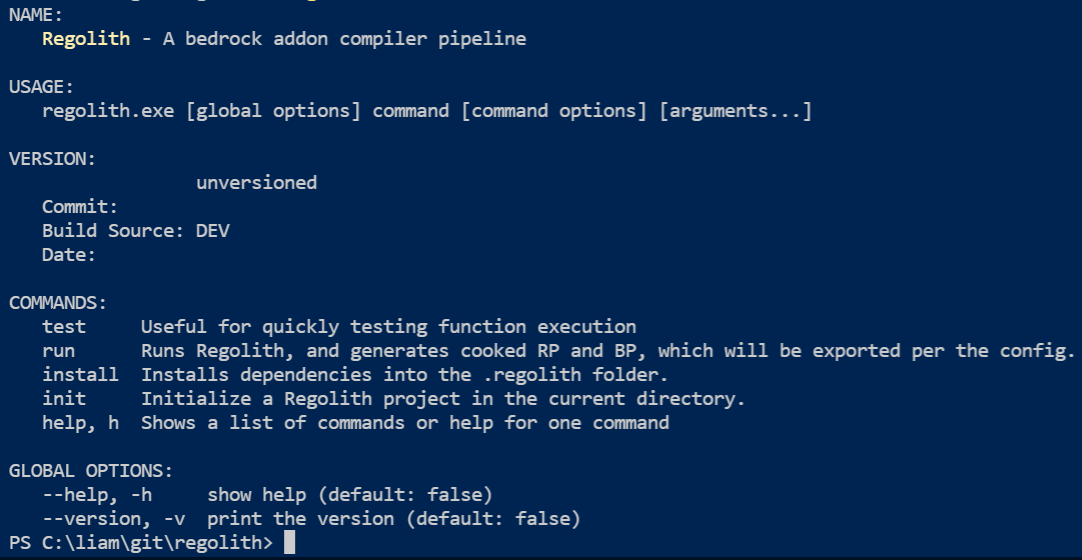
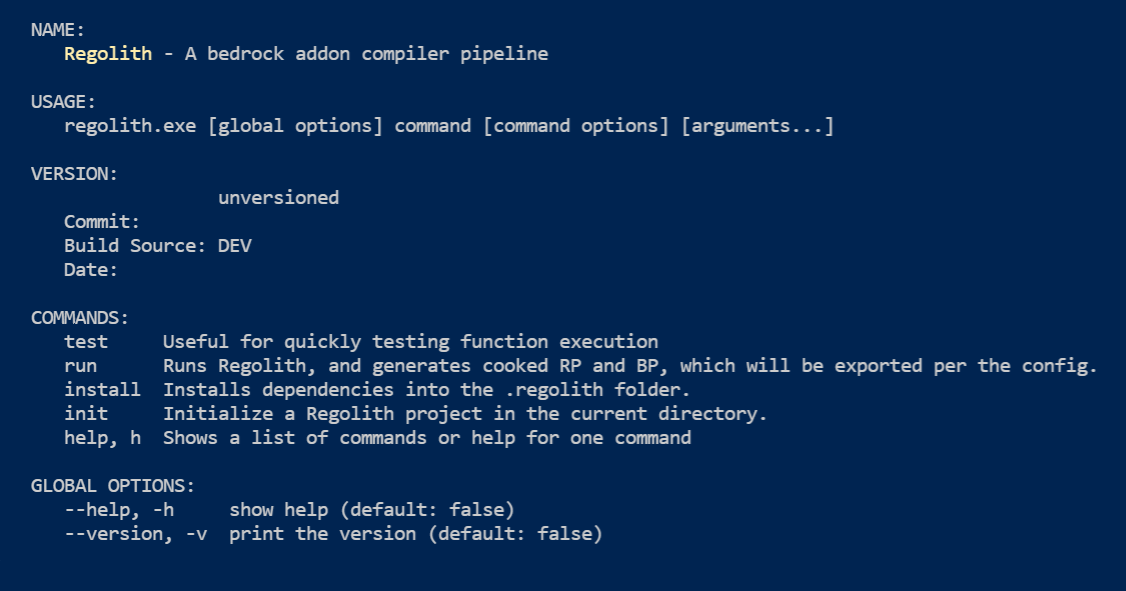
:docs Add docs

diff --git a/docs/_pages/docs/documentation/filter-types.md b/docs/_pages/docs/documentation/filter-types.md
@@ -1,0 +1,55 @@
+---
+permalink: /docs/filter-types
+layout: single
+classes: wide
+title: Filter Types
+sidebar:
+  nav: "sidebar"
+---
+
+Regolith contains three distinct filter types, which allow you maximum flexibility in where to store your logic. 
+
+## Standard Library
+
+The standard library is a special [github repository](https://github.com/Bedrock-OSS/regolith-filters) hosted in the Bedrock OSS organization. 
+
+This repository is special, since folders here can be accessed by-name inside of Regolith, instead of by URL. This makes the standard library very easy to use for beginners. 
+
+[The full list of available standard-library filters can be found here.](/docs/documentation/standard-library)
+
+
+Example:
+
+```json
+{
+    "filter": "json_cleaner"
+}
+```
+
+This filter is equivalent to `"url": "https://github.com/Bedrock-OSS/regolith-filters/tree/master/json_cleaner"`, but since its hosted in our repository, you can just use the folder name.
+
+## Online Filters
+
+Online filters use the same format as standard filters, except instead of being hosted in our library repository, they can be contained in any github repository. This allows you to easily share your filters with other people. Regolith will handle the installation process.
+
+Example:
+
+```json
+{
+    "url": "https://github.com/Bedrock-OSS/regolith-filters/tree/master/json_cleaner"
+}
+```
+
+## Local Filters
+
+Local filters are great for quickly prototyping, or for personal filters that you do not want to share with anyone. In this case, you can simply run a local file:
+
+
+```json
+{
+    "runWith": "python",
+    "script": "./json_cleaner.py"
+}
+```
+
+The `.` path will be local to the root of the regolith project.

diff --git a/docs/_pages/docs/getting_started/introduction.md b/docs/_pages/docs/getting_started/introduction.md
@@ -19,7 +19,7 @@ Here is what a newly initialized Regolith project looks like:
 
 ## Compiling
 
-In the simplest case, Regolith can be used to move your packs from the project folder, into your target location (usually the development folders in `com.mojang). Each time you run regolith, the packs will be moved over, and updated.
+In the simplest case, Regolith can be used to move your packs from the project folder, into your target location (usually the development folders in `com.mojang`). Each time you run regolith, the packs will be moved over, and updated.
 
 However, Regoliths real value preposition is the ability to run *arbitrary code during this copy*. 
 

diff --git a/docs/_pages/docs/getting_started/getting-started.md b/docs/_pages/docs/getting_started/getting-started.md
@@ -7,7 +7,7 @@ sidebar:
   nav: "sidebar"
 ---
 
-To get started with Regolith, you should first read our [introduction](/docs/introduction) page, and the [installation](/docs/installation) page.
+To get started with Regolith, you should first read our [introduction](/docs/getting-started/introduction) page, and the [installation](/docs/getting-started/installation) page.
 
 You can test for installation by running `regolith` inside of a terminal. This guide will assume you have installed regolith directly, but you can follow along with a stand-alone build. Just ensure that the executable is placed inside of your project folder.
 

diff --git a/docs/_pages/docs/getting_started/installing.md b/docs/_pages/docs/getting_started/installing.md
@@ -14,12 +14,12 @@ Regolith can be installed, or downloaded as a standalone application. Both links
 To download directly, install the `regolith-x.x.x.msi` file. You may need to select "trust" to run the installer. The installation window will look like this:
 
 
-![](/assets/images/docs/installing/regolith-msi)
+![](/assets/images/docs/installing/regolith-msi.png)
 
 After installing, Regolith can be used in any command-prompt by typing `regolith`. You should see something like this:
 
 
-![](/assets/images/docs/installing/regolith-help)
+![](/assets/images/docs/installing/regolith-help.png)
 
 
 ## Stand-Alone
